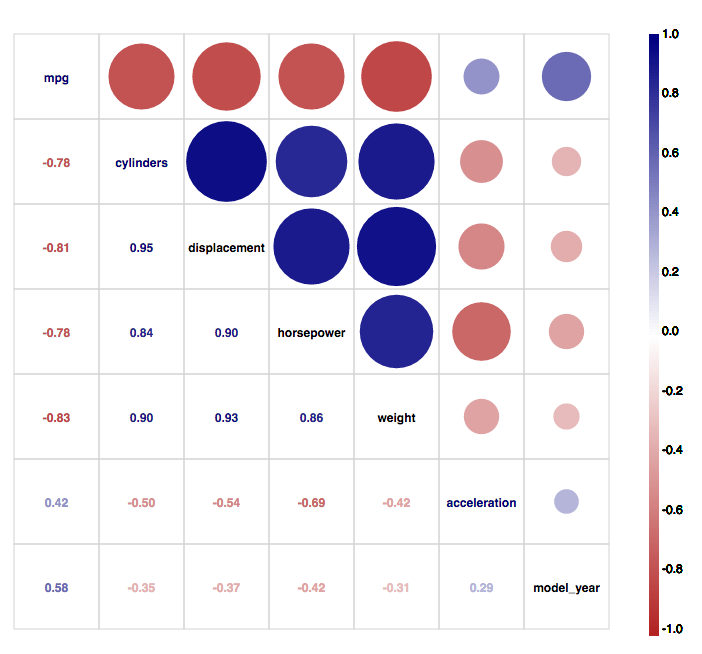
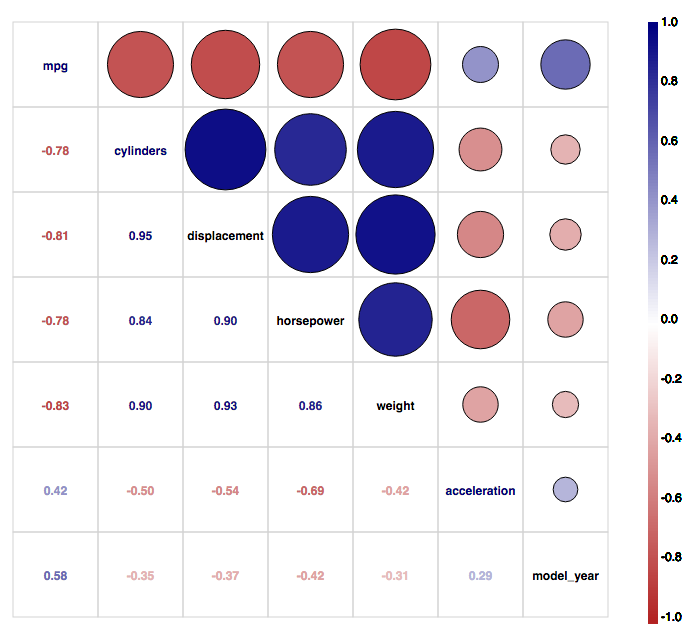
Add stroke to circle

diff --git a/Correlogram/D3 _Correlogram_template.html b/Correlogram/D3 _Correlogram_template.html
@@ -84,7 +84,7 @@ body, html { overflow: scroll; height: 100% }
         <div class="tab-pane" id="b_tab">
             <h1>Info</h1>
           	<h2>Introduction</h2>
-          	<p>This section provides a manual for the Scatter/Bubble visualization. It explains the meaning of the inputs, the correct specification of the input data table and known issues.</p>
+          	<p>This section provides a manual for the Correlogram visualization. It explains the meaning of the inputs, the correct specification of the input data table and known issues.</p>
           	<h2>Inputs</h2>
           	<img src="https://github.com/pcooman/d3_tools/blob/master/ScatterPlot/ScatterBubble_Toolbar_empty.png?raw=true">
     				<ul>
@@ -263,6 +263,7 @@ draw = function(data_full, vis_width, vis_height, params) {
     })
     .append("circle")
     .attr("r", function(d) {return (width / (num * 2)) * Math.abs(d.value);})
+    .attr("stroke","black")
     .style("fill", function(d){
       if (d.value === 1) {
         return "#000";
